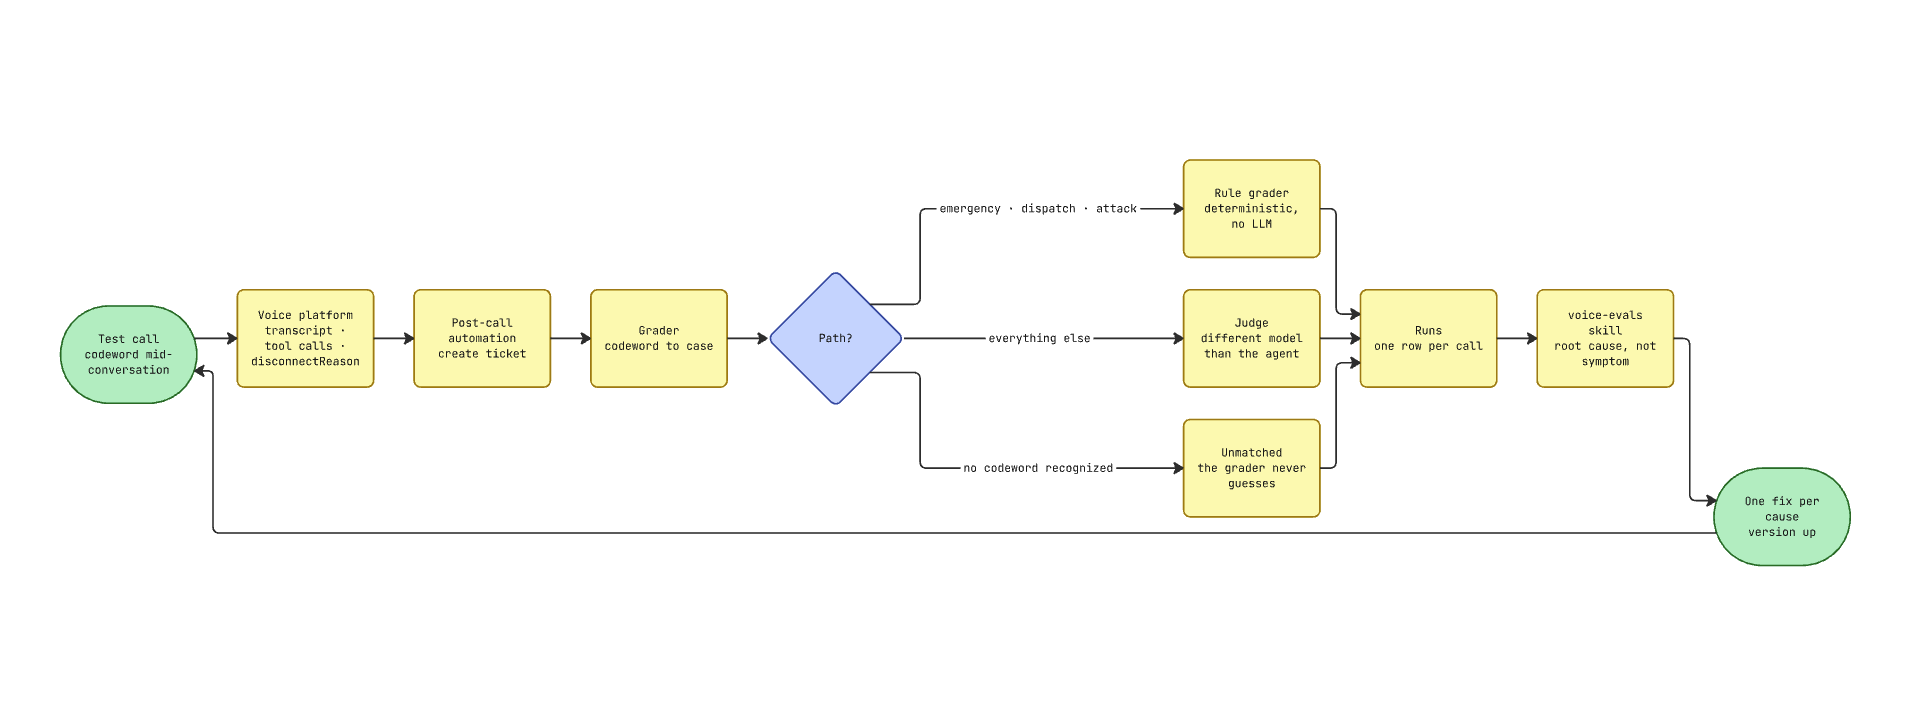
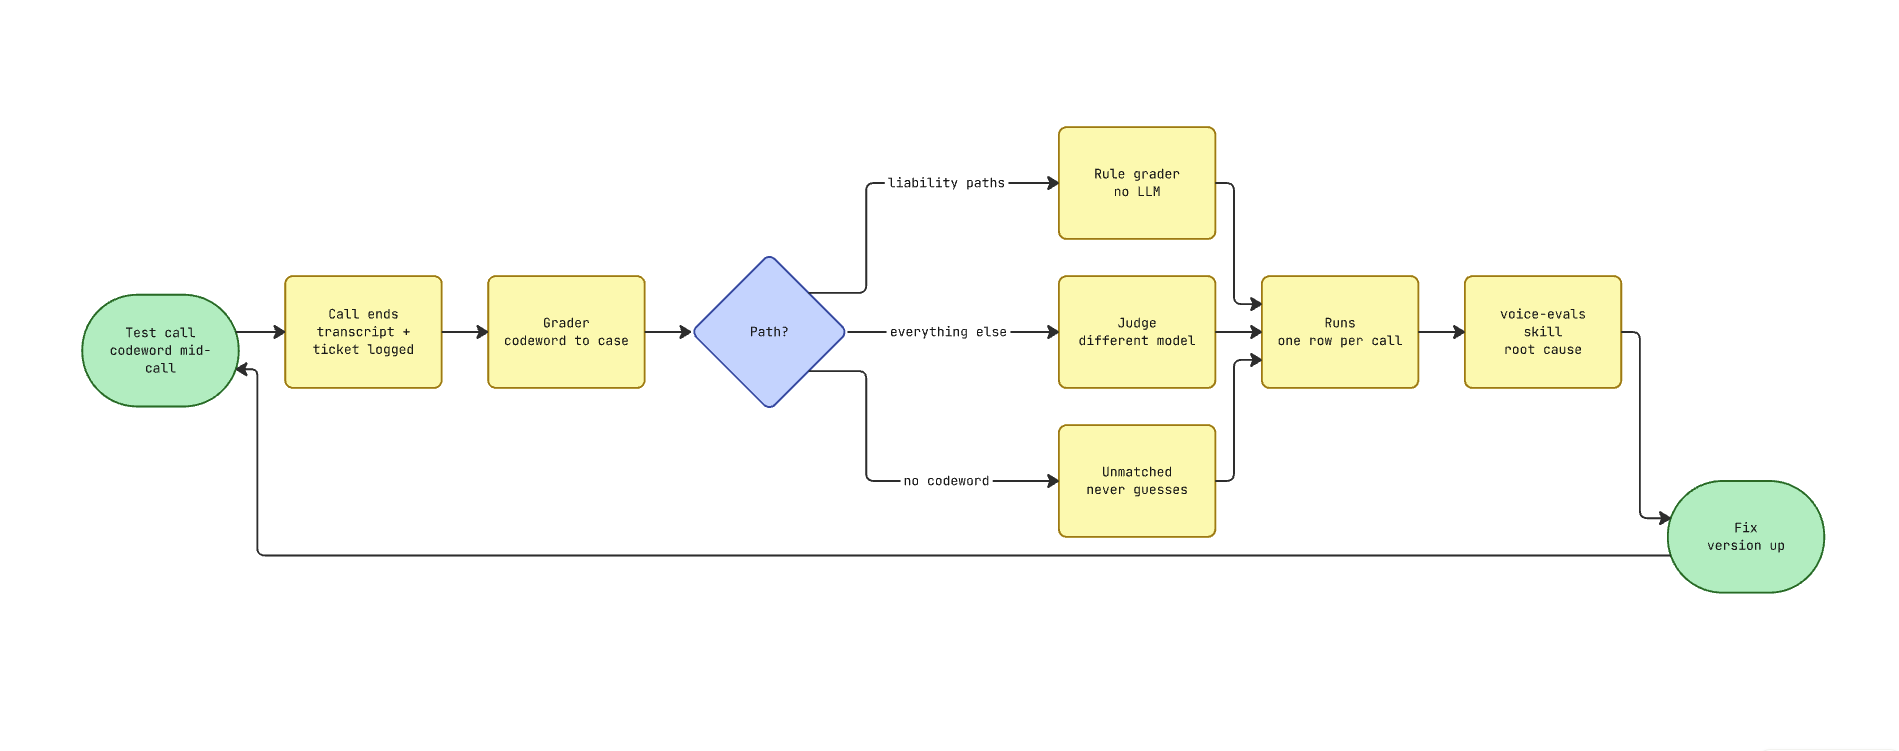
Status-Formulierung entschärft, neuer Diagramm-Screenshot
- "until then this is the method, not the result" raus - klang wie unbelegt/ausgedacht
- "Zahlen folgen" als eigene Zeile in "What's next" (v2), Status bleibt sachlich
- gid-Werte gegen die Live-Tabelle verifiziert (03-Fälle=0, 04-Läufe=932118030), stimmen
- assets/flow.png durch neuen, dichteren Export ersetzt

Changed region(s): [[0.0311, 0.1551, 0.9942, 0.8068]]

diff --git a/README.md b/README.md
@@ -44,7 +44,7 @@ Google Sheets keeps a tab's `gid` when you make a copy, so the grader's placehol
 
 ## Status
 
-The harness runs against a real voice agent for a property management company. Measured numbers follow once a version clears the gate — until then this is the method, not the result.
+The harness runs against a real voice agent for a property management company, working through the baseline round now.
 
 Built on a telephony platform with a post-call webhook, n8n, and Google Sheets. The mechanics don't depend on any of them: what counts is codeword matching, path-dependent scoring, and `pass^k`.
 
@@ -52,6 +52,7 @@ Built on a telephony platform with a post-call webhook, n8n, and Google Sheets. 
 
 **What changes in v2?**
 
+- Measured pass rate and Δ per round, published once a version clears the gate.
 - The grader moves from n8n to a plain Python script — one dependency less, easier to audit.
 - The remaining German-only pieces (spreadsheet columns, path names, case codewords) get translated, so the whole repo runs in one language.
 
